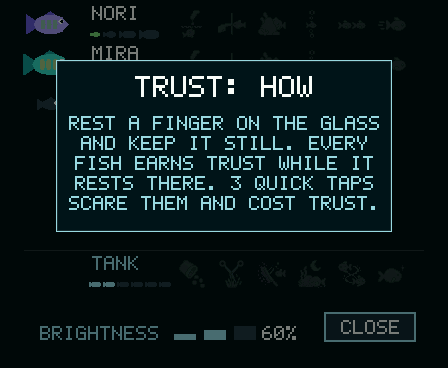
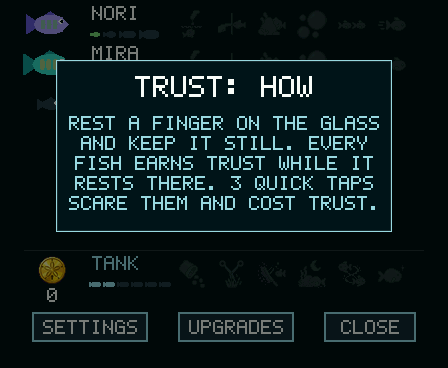
The GLASS fry gate and the snail's card
No fry is conceived in a dirty tank: film on more than 15% of the glass is
a care gate like the others - a fifth badge on the NEW FRY row whose bar
fills as the keeper wipes, with its card and HOW? tip. Tap the snail for
its card: the tally of spots it has grazed clean, saved. README: the gate
in the NEW FRY paragraph, the card in the snail's, a snail-card screenshot,
the NEW FRY row and HOW? tip screenshots refreshed. Resync of dev e41d62e.

Changed region(s): [[0.0625, 0.6875, 0.6562, 0.9266]]

diff --git a/common/tank.c b/common/tank.c
@@ -264,6 +264,7 @@ void tank_init(tank_t *t, uint32_t seed) {
     for (int i = 0; i < N_FISH_MAX; i++) t->sd_paid_fish[i] = 0;
     t->sd_colonies_paid = t->sd_inches_paid = 0;
     t->snail_x = -1; t->snail_y = -1; t->snail_heading = 0; t->snail_cell = -1; t->snail_graze = 0;
+    t->snail_grazed = 0;
     t->plant_x = 0; t->plant_z = DECOR_Z_MIDDLE;
     t->tank_ms_bits = 0; t->tank_ms_seen = 0; t->ask_rr = 0; t->advisor_asks = 0;
     tank_scatter_food(t, 2);
@@ -496,6 +497,12 @@ static int veg_cut(tank_t *t, float x0, float y0, float x1, float y1, bool landi
     return cuts;
 }
 
+float tank_algae_cover(const tank_t *t) {
+    int covered = 0;
+    for (int i = 0; i < ALGAE_CELLS; i++) covered += t->algae[i] > 0;
+    return (float)covered / ALGAE_CELLS;
+}
+
 /* one film step: thicken a covered cell, or claim a fresh one (preferring
  * cells next to existing film, then the glass edges - the way a real tank
  * fouls from the corners in) until the dapple cap is reached */
@@ -607,6 +614,14 @@ static int snail_nearest_cell(const tank_t *t) {
     return best;
 }
 bool tank_snail_upright(const tank_t *t) { return t->snail_cell < 0 && t->snail_y >= SNAIL_FLOOR_Y - 1; }
+#define SNAIL_TAP_RADIUS 48.0f     /* generous round the 32 px sprite: a fingertip on this 322 ppi
+                                    * panel covers ~60 px, and the snail is small and low on the glass
+                                    * (Strato, 2026-09-16: "challenging to tap the little guy" at 30;
+                                    * the fish take 38 and are tested first) */
+bool tank_snail_hit(const tank_t *t, float x, float y) {
+    if (!(t->sd_unlocks & SD_ITEM_SNAIL) || t->snail_x < 0) return false;
+    return tank_dist(t->snail_x, t->snail_y, x, y) <= SNAIL_TAP_RADIUS;
+}
 static void snail_tick(tank_t *t, float dt) {
     if (!(t->sd_unlocks & SD_ITEM_SNAIL)) return;
     if (t->snail_x < 0) tank_snail_place(t);
@@ -624,6 +639,7 @@ static void snail_tick(tank_t *t, float dt) {
             t->snail_graze += dt;
             int v = t->algae[t->snail_cell] - (int)(SNAIL_GRAZE_PER_S * dt + 0.5f);
             t->algae[t->snail_cell] = (uint8_t)(v < 0 ? 0 : v);
+            if (v <= 0) t->snail_grazed++;                  /* a cell eaten clean: its card's tally */
         }
     } else if (t->snail_y < SNAIL_FLOOR_Y - 1) {            /* clean glass: down to the floor, flat on the glass, head down.
                                                                A hair off straight down keeps the sideways facing it had
@@ -652,7 +668,7 @@ static void snail_sleep(tank_t *t, float seconds) {
     for (int k = 0; k < cells; k++) {
         int c = snail_nearest_cell(t);
         if (c < 0) break;
-        t->algae[c] = 0;
+        t->algae[c] = 0; t->snail_grazed++;
         t->snail_x = clampf((c % ALGAE_COLS) * ALGAE_CELL + ALGAE_CELL * 0.5f, SNAIL_MARGIN, TANK_W - SNAIL_MARGIN);
         t->snail_y = clampf((c / ALGAE_COLS) * ALGAE_CELL + ALGAE_CELL * 0.5f, SNAIL_MARGIN, TANK_H - SNAIL_MARGIN);
     }

diff --git a/common/tank.h b/common/tank.h
@@ -72,6 +72,13 @@ typedef enum { VEG_KIND_GRASS, VEG_KIND_SWORD } veg_kind_t;
 #define ALGAE_COLS (TANK_W / ALGAE_CELL)       /* 28 */
 #define ALGAE_ROWS (TANK_H / ALGAE_CELL)       /* 23 */
 #define ALGAE_CELLS (ALGAE_COLS * ALGAE_ROWS)
+#define ALGAE_DIRTY 0.15f                      /* film on more of the glass than this =
+                                                * a DIRTY tank: no fry is conceived in
+                                                * it until it is wiped back under (a
+                                                * fry gate, 2026-09-16). Some film is
+                                                * fine; growth stops claiming cells at
+                                                * ALGAE_COVER_CAP (tank.c, 0.30), and one
+                                                * night's sleep films ~25% (selftest-tend) */
 
 typedef enum {
     GOAL_SEEK_FOOD, GOAL_FLEE_SHADOW, GOAL_VISIT_BUBBLES, GOAL_FOLLOW_FRIEND,
@@ -265,6 +272,8 @@ typedef struct tank {
     float    snail_x, snail_y, snail_heading;
     int16_t  snail_cell;           /* the algae cell it is heading for, -1 = wandering */
     float    snail_graze;          /* seconds on the current cell */
+    int32_t  snail_grazed;         /* algae cells it has grazed clean, lifetime (its card,
+                                    * 2026-09-16; saved) */
     /* where the keeper put the decor (2026-09-16, the placement page): the
      * sword plant's centre x along the floor (<= 0 = the default spot) and
      * its depth layer (DECOR_Z_*). Both saved. */
@@ -429,6 +438,10 @@ void  tank_veg_set(tank_t *t, int b, float g);
 /* the tallest bed at VEG_NURSERY or better, -1 if none (progression gates
  * courtship and arrivals on it; tank.c stages the courtship there) */
 int   tank_nursery_bed(const tank_t *t);
+/* the share of the glass wearing film, 0..1 (cells with any algae over all
+ * cells - what the keeper sees covered, not how thick). > ALGAE_DIRTY = a
+ * dirty tank: the fry checklist's GLASS gate (progression.c) */
+float tank_algae_cover(const tank_t *t);
 void  tank_veg_sync(tank_t *t);                 /* veg_growth[] from veg_h[][] (after a load) */
 void  tank_grow_algae(tank_t *t, int steps);
 
@@ -499,5 +512,8 @@ float tank_decor_half_w(int item);         /* half the footprint, for the page's
  * on the floor it is SNAIL_FLOOR_Y, the foot on the sand line. */
 #define SNAIL_FLOOR_Y (TANK_H - 24.0f)
 bool  tank_snail_upright(const tank_t *t);
+/* a tap on the snail (its card, 2026-09-16): placed, and within a fingertip
+ * of the sprite's centre. Platforms test the fish first. */
+bool  tank_snail_hit(const tank_t *t, float x, float y);
 
 #endif

diff --git a/common/progression.h b/common/progression.h
@@ -110,15 +110,17 @@ void progression_ack_milestones(tank_t *t);
  * the first thing a keeper asks is "how do I get a new fry?" - and the
  * milestones page said nothing). progression_next_fry fills one line per
  * gate of the NEXT arrival: the care gates arrival_conditions counts (the
- * same code, so the list can never disagree with the rule) plus the nursery
- * bed every arrival needs. Each line: a kind (the renderer picks the art),
- * a title, the words (what to do - a plain sentence over two lines; Strato:
+ * same code, so the list can never disagree with the rule - the population's
+ * gates, then the GLASS gate every arrival needs: no fry is conceived in a
+ * dirty tank, film on more than ALGAE_DIRTY of the glass, 2026-09-16) plus
+ * the nursery bed every arrival needs. Each line: a kind (the renderer
+ * picks the art), a title, the words (what to do - a plain sentence over two lines; Strato:
  * "all fish must have a minimum six out of 10 trust score", not a hint), a
  * progress phrase (where it stands), a 0..1 fraction and whether it is met. Returns the count, 0 at the
  * population cap. *staged = every gate is met and the fry waits for the
  * next light-on. Strings fit the pixel font: <= 25 chars at scale 2. */
-enum { FRY_REQ_TRUST, FRY_REQ_FEED, FRY_REQ_HOLD, FRY_REQ_GROW, FRY_REQ_CHANGE, FRY_REQ_GRASS };
-#define FRY_REQ_MAX 4
+enum { FRY_REQ_TRUST, FRY_REQ_FEED, FRY_REQ_HOLD, FRY_REQ_GROW, FRY_REQ_CHANGE, FRY_REQ_GRASS, FRY_REQ_GLASS };
+#define FRY_REQ_MAX 5
 typedef struct {
     int   kind;
     char  title[12];
@@ -133,7 +135,7 @@ int progression_next_fry(const tank_t *t, fry_req_t out[FRY_REQ_MAX], bool *stag
  * keeper moves it, in up to FRY_TIP_LINES lines of <= 26 chars, NULL-
  * terminated. Written from the rules in tank.c / progression.c (trust
  * only rises under a resting finger; quick taps cost it; fish age only
- * while lit; grass regrows by itself). */
+ * while lit; grass regrows by itself; the glass is wiped by a drag). */
 #define FRY_TIP_LINES 5
 const char *const *progression_fry_tip(int kind);
 

diff --git a/firmware/main/touch_port_ft3168.c b/firmware/main/touch_port_ft3168.c
@@ -148,7 +148,7 @@ void touch_port_poll(tank_t *t) {
                 progression_ack_milestones(t); render_milestones_leave();   /* everything shown is now "seen" */
                 goto released;
             }
-            if (s_sel >= 0 && s_px >= RENDER_CARD_X && s_px < RENDER_CARD_X + RENDER_CARD_W &&
+            if (s_sel >= 0 && s_sel != RENDER_CARD_SNAIL && s_px >= RENDER_CARD_X && s_px < RENDER_CARD_X + RENDER_CARD_W &&
                 s_py >= RENDER_CARD_Y && s_py < RENDER_CARD_Y + RENDER_CARD_H) {
                 s_ms = true; goto released;                          /* a tap ON the card = milestones page */
             }
@@ -165,6 +165,9 @@ void touch_port_poll(tank_t *t) {
                 if (d2 < bd) { bd = d2; best = i; }
             }
             if (best >= 0) { s_sel = (best == s_sel) ? -1 : best; s_sel_us = now; }
+            else if (tank_snail_hit(t, s_px, s_py)) {   /* the snail: its card (2026-09-16), the fish first */
+                s_sel = s_sel == RENDER_CARD_SNAIL ? -1 : RENDER_CARD_SNAIL; s_sel_us = now;
+                ESP_LOGI(TAG, "snail tapped: card %s (%d spots grazed)", s_sel >= 0 ? "up" : "down", (int)t->snail_grazed); }
             else if (s_sel >= 0) s_sel = -1;   /* card up: a tap on empty glass just
                                                   dismisses it - it is NOT a tank tap
                                                   (no feed, no light-toggle burst) */
@@ -174,7 +177,7 @@ void touch_port_poll(tank_t *t) {
     }
 released:
     s_down = touched;
-    if (s_sel >= t->n_fish) s_sel = -1;                          /* fresh tank / save load */
+    if (s_sel >= t->n_fish && s_sel != RENDER_CARD_SNAIL) s_sel = -1;   /* fresh tank / save load */
     if (s_sel >= 0 && now - s_sel_us > 10 * 1000000) s_sel = -1; /* auto-dismiss */
 }
 

diff --git a/firmware/main/director.c b/firmware/main/director.c
@@ -130,9 +130,9 @@ static void show_state(const tank_t *t) {
              t->sd_unlocks ? "" : " -", (int)t->algae_colonies, t->trim_px / PX_PER_INCH);
     if (t->sd_unlocks & SD_ITEM_SNAIL) {                /* where it is, what it is after */
         int c = t->snail_cell, cells = 0; for (int i = 0; i < ALGAE_CELLS; i++) cells += t->algae[i] > 0;
-        ESP_LOGI(TAG, "snail at %.0f,%.0f heading %.0f deg | %s cell %d at %d,%d (film %d) | %d cells on the glass", t->snail_x, t->snail_y,
+        ESP_LOGI(TAG, "snail at %.0f,%.0f heading %.0f deg | %s cell %d at %d,%d (film %d) | %d cells on the glass | %d grazed so far", t->snail_x, t->snail_y,
                  t->snail_heading * 57.3f, c >= 0 ? "after" : "no target,", c, c >= 0 ? (c % ALGAE_COLS) * ALGAE_CELL + 8 : -1,
-                 c >= 0 ? (c / ALGAE_COLS) * ALGAE_CELL + 8 : -1, c >= 0 ? t->algae[c] : 0, cells);
+                 c >= 0 ? (c / ALGAE_COLS) * ALGAE_CELL + 8 : -1, c >= 0 ? t->algae[c] : 0, cells, (int)t->snail_grazed);
     }
     for (int b = 0; b < tank_veg_beds(t); b++) {   /* per-frond heights: which blades a sweep left standing */
         char row[VEG_FRONDS_MAX * 5 + 1]; int len = 0, n; float x0, f0, f1;

diff --git a/common/render.h b/common/render.h
@@ -44,7 +44,13 @@ void render_fb_primed(const uint16_t *fb, unsigned epoch);
  * visual bars (drives + personality) and stage pips. No text, no digits —
  * the progression design's "simple and visual" stats view. Personality bars
  * are revealed only after the fish has shown that side of itself (milestone
- * bits): you learn your fish by watching. */
+ * bits): you learn your fish by watching.
+ * fish_idx == RENDER_CARD_SNAIL (2026-09-16): the SNAIL's card instead - a
+ * ring on the snail and a small centred card: the upright sprite at 2x and
+ * how much algae it has grazed so far (tank_t.snail_grazed). The platforms
+ * keep it in the same selection slot as a fish (a tap on the snail opens it,
+ * a tap anywhere else dismisses it, no card cache). */
+#define RENDER_CARD_SNAIL 99
 void render_stats_card(const tank_t *t, int fish_idx, uint16_t *fb, int stride);
 /* Optional card cache (RENDER_CARD_W x RENDER_CARD_H uint16): with the scene
  * cache live, the card is redrawn at most 4x/s and blitted otherwise (~7 ms

diff --git a/firmware/main/touch_port.h b/firmware/main/touch_port.h
@@ -5,7 +5,7 @@
 #include "tank.h"
 bool touch_port_init(void);
 void touch_port_poll(tank_t *t);
-int  touch_port_selected(void);   /* tapped fish for the stats card, -1 = none */
+int  touch_port_selected(void);   /* tapped fish for the stats card, RENDER_CARD_SNAIL for the snail's, -1 = none */
 /* milestones page: a tap ON the open stats card flips to it; it has no
  * auto-dismiss - the next tap anywhere closes it (and the card, if still up).
  * touch_port_show_milestones is the director's cue (needs no card). */

diff --git a/README.md b/README.md
@@ -170,7 +170,9 @@ the last fish: what the next arrival needs, as badges that light up when
 met, with a filling bar under each one still owed. The list is read from
 the same rule that decides a birth, so it is never wrong: at two fish it
 is trust, meals and a calm hold; later the youngest must grow up, and the
-counts rise. Tap a badge for the plain words and where it stands ("ALL FISH
+counts rise; and always clean glass and some grass, because no fry is
+conceived in a dirty tank (film on more than 15% of the pane closes the
+gate, and its bar fills as you wipe). Tap a badge for the plain words and where it stands ("ALL FISH
 MUST HAVE TRUST OF AT LEAST 6 OUT OF 10 / LOWEST NOW 4.1"), and HOW? for a
 tip on how to get there. Tap the name for the tally. When every step is
 done, the fry is born at the next light-on.
@@ -194,7 +196,9 @@ leaves on the open floor, trimmed and grown and counted as cover like the
 grass. The **snail** (80) grazes the glass clean cell by cell, crawling
 flat across the pane with its head leading, and walks the floor upright
 when there is nothing to eat; it keeps working while the tank sleeps, so
-the glass is thinner in the morning. The model sees neither: they reach
+the glass is thinner in the morning. Tap the snail for its card: a ring
+around it and a tally of the spots of algae it has grazed clean so far,
+night shifts included. The model sees neither: they reach
 the fish the way your own chores do, through cover and the film. Dollars
 earned while you watch show as a small "+N" over the water.
 
@@ -214,6 +218,7 @@ goes wherever the algae is.
 ![Unlocking the snail](docs/media/sim-shop-modal.png)
 ![The sword plant and the snail on the glass, a +5 just earned](docs/media/sim-tank-shop.png)
 ![The snail walking the floor](docs/media/sim-tank-snail.png)
+![The snail's card](docs/media/sim-snail-card.png)
 ![Placing the sword plant: dragged to the right, IN FRONT of the fish](docs/media/sim-place.png)
 
 **The light.** Two quick taps on the glass turn the tank light off and on;
